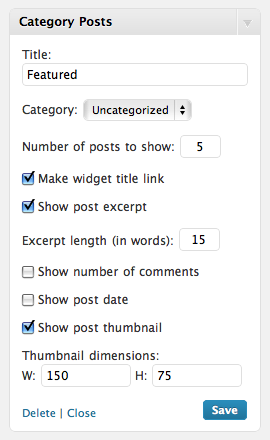
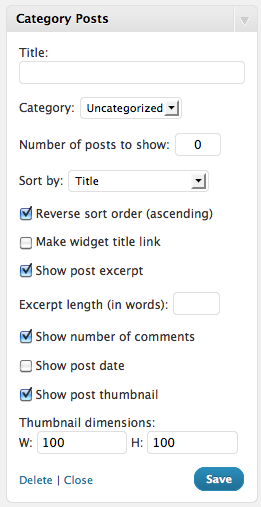
Added option to change ordering of posts.

diff --git a/cat-posts.php b/cat-posts.php
@@ -40,10 +40,25 @@ function widget($args, $instance) {
 	if( !$instance["title"] ) {
 		$category_info = get_category($instance["cat"]);
 		$instance["title"] = $category_info->name;
-	}
+  }
+
+  $valid_sort_orders = array('date', 'title', 'comment_count', 'random');
+  if ( in_array($instance['sort_by'], $valid_sort_orders) ) {
+    $sort_by = $instance['sort_by'];
+    $sort_order = (bool) $instance['asc_sort_order'] ? 'ASC' : 'DESC';
+  } else {
+    // by default, display latest first
+    $sort_by = 'date';
+    $sort_order = 'DESC';
+  }
 	
 	// Get array of post info.
-	$cat_posts = new WP_Query("showposts=" . $instance["num"] . "&cat=" . $instance["cat"]);
+  $cat_posts = new WP_Query(
+    "showposts=" . $instance["num"] . 
+    "&cat=" . $instance["cat"] .
+    "&orderby=" . $sort_by .
+    "&order=" . $sort_order
+  );
 
 	// Excerpt length filter
 	$new_excerpt_length = create_function('$length', "return " . $instance["excerpt_length"] . ";");
@@ -156,8 +171,30 @@ function form($instance) {
 				<?php _e('Number of posts to show'); ?>:
 				<input style="text-align: center;" id="<?php echo $this->get_field_id("num"); ?>" name="<?php echo $this->get_field_name("num"); ?>" type="text" value="<?php echo absint($instance["num"]); ?>" size='3' />
 			</label>
-		</p>
+    </p>
+
+    <p>
+			<label for="<?php echo $this->get_field_id("sort_by"); ?>">
+        <?php _e('Sort by'); ?>:
+        <select id="<?php echo $this->get_field_id("sort_by"); ?>" name="<?php echo $this->get_field_name("sort_by"); ?>">
+          <option value="date"<?php selected( $instance["sort_by"], "date" ); ?>>Date</option>
+          <option value="title"<?php selected( $instance["sort_by"], "title" ); ?>>Title</option>
+          <option value="comment_count"<?php selected( $instance["sort_by"], "comment_count" ); ?>>Number of comments</option>
+          <option value="random"<?php selected( $instance["sort_by"], "random" ); ?>>Random</option>
+        </select>
+			</label>
+    </p>
 		
+		<p>
+			<label for="<?php echo $this->get_field_id("asc_sort_order"); ?>">
+        <input type="checkbox" class="checkbox" 
+          id="<?php echo $this->get_field_id("asc_sort_order"); ?>" 
+          name="<?php echo $this->get_field_name("asc_sort_order"); ?>"
+          <?php checked( (bool) $instance["asc_sort_order"], true ); ?> />
+				<?php _e( 'Reverse sort order (ascending)' ); ?>
+			</label>
+    </p>
+
 		<p>
 			<label for="<?php echo $this->get_field_id("title_link"); ?>">
 				<input type="checkbox" class="checkbox" id="<?php echo $this->get_field_id("title_link"); ?>" name="<?php echo $this->get_field_name("title_link"); ?>"<?php checked( (bool) $instance["title_link"], true ); ?> />
